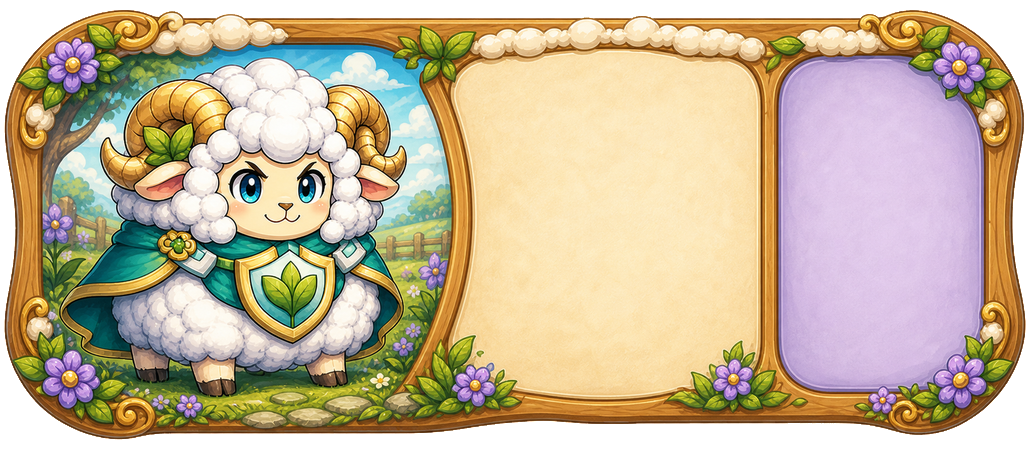
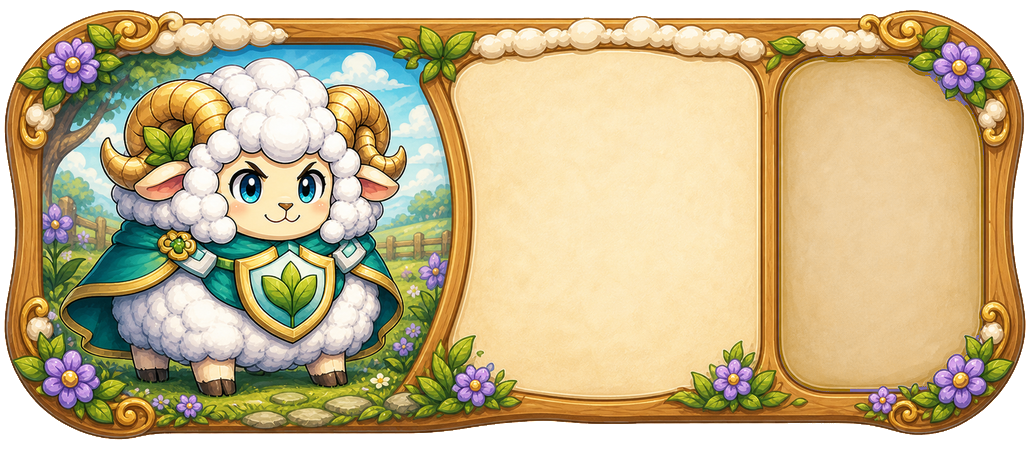
chore: snapshot latest working state before open-source release

Changed region(s): [[0.7456, 0.1244, 0.9631, 0.8711]]

diff --git a/assets/scripts/GameController.ts b/assets/scripts/GameController.ts
@@ -57,9 +57,9 @@ const { ccclass, property } = _decorator;
 const DESIGN_WIDTH = 1280;
 const DESIGN_HEIGHT = 720;
 const GAME_NAME = '羊狼四线战';
-const GAME_VERSION = 'v1.3.0-dev-polish09-ui19-perf01-loading01';
-const DEVELOPMENT_BATCH = 'v1.3.0-dev-polish09-ui19-perf01-loading01';
-const REQUESTED_TASK_ID = 'v1.3.0-dev-polish09-ui19-perf01-loading01';
+const GAME_VERSION = 'v1.3.0-dev-polish16-ui26-bgmalign01';
+const DEVELOPMENT_BATCH = 'v1.3.0-dev-polish16-ui26-bgmalign01';
+const REQUESTED_TASK_ID = 'v1.3.0-dev-polish16-ui26-bgmalign01';
 const BATTLEFIELD_CENTER_X = -90;
 // Rebalance the battle screen into three non-overlapping columns. Every
 // lane-owned visual and interaction axis consumes this same translation.
@@ -162,15 +162,18 @@ const PAUSE_ACTION_SECOND_ROW_Y = 17;
 const PAUSE_BGM_CENTER_Y = -130;
 const PAUSE_VOLUME_CENTER_Y = -252;
 const PAUSE_SETTINGS_ROW_WIDTH = 430;
-const PAUSE_BGM_ROW_HEIGHT = 166;
+const PAUSE_BGM_ROW_HEIGHT = 176;
 const PAUSE_BGM_CARD_WIDTH = 400;
 const PAUSE_BGM_CARD_HEIGHT = 56;
-const PAUSE_BGM_FIRST_CARD_Y = 9;
-const PAUSE_BGM_SECOND_CARD_Y = -55;
+const PAUSE_BGM_FIRST_CARD_Y = 10;
+const PAUSE_BGM_SECOND_CARD_Y = -54;
 const PAUSE_BGM_ICON_X = -173;
-const PAUSE_BGM_CONTENT_X = -10;
-const PAUSE_BGM_CONTENT_WIDTH = 236;
-const PAUSE_BGM_STATE_X = 153;
+// Match the two vertical separators baked into the sliced level-card art.
+const PAUSE_BGM_LEFT_DIVIDER_X = -143;
+const PAUSE_BGM_RIGHT_DIVIDER_X = 116;
+const PAUSE_BGM_CONTENT_X = -14;
+const PAUSE_BGM_CONTENT_WIDTH = 230;
+const PAUSE_BGM_STATE_X = 154;
 const PAUSE_BGM_STATE_WIDTH = 64;
 const PAUSE_BGM_CHECK_X = 181;
 const PAUSE_VOLUME_ROW_WIDTH = 208;
@@ -439,7 +442,7 @@ const TARGET_TYPOGRAPHY_STYLES: Readonly<Record<TargetTypographyRole, TargetTypo
         lineHeight: 27,
         isBold: true,
         color: UI_TEXT_PRIMARY,
-        overflow: Label.Overflow.CLAMP,
+        overflow: Label.Overflow.SHRINK,
         enableWrapText: false,
         horizontalAlign: HorizontalTextAlignment.LEFT,
         verticalAlign: VerticalTextAlignment.CENTER,
@@ -449,37 +452,37 @@ const TARGET_TYPOGRAPHY_STYLES: Readonly<Record<TargetTypographyRole, TargetTypo
         lineHeight: 18,
         isBold: false,
         color: UI_TEXT_SECONDARY,
-        overflow: Label.Overflow.CLAMP,
+        overflow: Label.Overflow.SHRINK,
         enableWrapText: false,
         horizontalAlign: HorizontalTextAlignment.RIGHT,
         verticalAlign: VerticalTextAlignment.CENTER,
     },
     BgmCardTitle: {
-        fontSize: 18,
-        lineHeight: 23,
+        fontSize: 17,
+        lineHeight: 20,
         isBold: true,
         color: new Color(74, 56, 39, 255),
-        overflow: Label.Overflow.CLAMP,
+        overflow: Label.Overflow.SHRINK,
         enableWrapText: false,
         horizontalAlign: HorizontalTextAlignment.LEFT,
         verticalAlign: VerticalTextAlignment.CENTER,
     },
     BgmCardBody: {
-        fontSize: 14,
-        lineHeight: 18,
+        fontSize: 13,
+        lineHeight: 16,
         isBold: false,
         color: new Color(100, 87, 61, 255),
-        overflow: Label.Overflow.CLAMP,
+        overflow: Label.Overflow.SHRINK,
         enableWrapText: false,
         horizontalAlign: HorizontalTextAlignment.LEFT,
         verticalAlign: VerticalTextAlignment.CENTER,
     },
     BgmCardState: {
-        fontSize: 13,
-        lineHeight: 16,
+        fontSize: 12,
+        lineHeight: 15,
         isBold: true,
         color: new Color(126, 84, 25, 255),
-        overflow: Label.Overflow.CLAMP,
+        overflow: Label.Overflow.SHRINK,
         enableWrapText: false,
         horizontalAlign: HorizontalTextAlignment.CENTER,
         verticalAlign: VerticalTextAlignment.CENTER,
@@ -542,6 +545,11 @@ const LANE_PROGRESS_VALUE_EPSILON = 0.001;
 const UNIT_HEALTH_RENDER_RATIO_EPSILON = 0.0001;
 const LANE_STALL_RECOVERY_SECONDS = 2;
 const MAX_LOGIC_DELTA_TIME = 0.1;
+// Web previews commonly run on 120/144/165 Hz displays. The engine default of
+// 60 Hz made slow lane motion hold for several display refreshes and then jump.
+// Mini-game runtimes keep their platform-selected cadence; the browser alone
+// requests 120 Hz while still using delta-time-based gameplay movement.
+const BROWSER_TARGET_FRAME_RATE = 120;
 // Root positions stay inside these bounds. The margin also reserves room for
 // the health bar and keeps units away from the surrounding HUD/base visuals.
 const UNIT_ROAD_SAFETY_MARGIN = 22;
@@ -1902,6 +1910,13 @@ export class GameController extends Component {
         if (!this.node.getComponent(Canvas)) {
             console.error('[WolfSheepBattle] GameController 必须挂在 Canvas 节点上。');
             return;
+        }
+        if (sys.isBrowser) {
+            const configuredFrameRate = Number(game.frameRate);
+            game.frameRate = Math.max(
+                Number.isFinite(configuredFrameRate) ? configuredFrameRate : 60,
+                BROWSER_TARGET_FRAME_RATE,
+            );
         }
 
         WeChatShareManager.initialize(GAME_VERSION);
@@ -11328,10 +11343,10 @@ export class GameController extends Component {
         graphics.roundRect(-PAUSE_SETTINGS_ROW_WIDTH / 2 + 0.75, -PAUSE_BGM_ROW_HEIGHT / 2 + 0.75,
             PAUSE_SETTINGS_ROW_WIDTH - 1.5, PAUSE_BGM_ROW_HEIGHT - 1.5, 15);
         graphics.stroke();
-        const title = this.createLabel(selector, 'BgmTrackTitle', '背景音乐风格', -111, 65, 176, 30, 22,
+        const title = this.createLabel(selector, 'BgmTrackTitle', '背景音乐风格', -111, 67, 176, 26, 22,
             new Color(74, 56, 39, 255));
         this.applyTargetTypography(title, 'BgmSectionTitle');
-        const hint = this.createLabel(selector, 'BgmTrackHint', '点击卡片立即试听并保存', 95, 65, 208, 24, 14,
+        const hint = this.createLabel(selector, 'BgmTrackHint', '点击卡片立即试听并保存', 95, 67, 208, 22, 14,
             new Color(116, 100, 82, 255));
         this.applyTargetTypography(hint, 'BgmSectionHint');
 
@@ -11363,20 +11378,20 @@ export class GameController extends Component {
             PAUSE_BGM_CARD_WIDTH, PAUSE_BGM_CARD_HEIGHT, x, y, parent);
         const optionGraphics = root.getComponent(Graphics)!;
         const titleLabel = this.createLabel(root, 'Title', track.displayName,
-            PAUSE_BGM_CONTENT_X, 14, PAUSE_BGM_CONTENT_WIDTH, 22, 18,
+            PAUSE_BGM_CONTENT_X, 11, PAUSE_BGM_CONTENT_WIDTH, 20, 17,
             new Color(74, 56, 39, 255));
         this.applyTargetTypography(titleLabel, 'BgmCardTitle');
         const subtitleLabel = this.createLabel(root, 'Subtitle', track.subtitle,
-            PAUSE_BGM_CONTENT_X, -14, PAUSE_BGM_CONTENT_WIDTH, 18, 14,
+            PAUSE_BGM_CONTENT_X, -12, PAUSE_BGM_CONTENT_WIDTH, 18, 13,
             new Color(100, 87, 61, 255));
         this.applyTargetTypography(subtitleLabel, 'BgmCardBody');
         const statusLabel = this.createLabel(root, 'Status', '',
-            PAUSE_BGM_STATE_X, -12, PAUSE_BGM_STATE_WIDTH, 18, 13,
+            PAUSE_BGM_STATE_X, -12, PAUSE_BGM_STATE_WIDTH, 16, 12,
             new Color(126, 84, 25, 255));
         this.applyTargetTypography(statusLabel, 'BgmCardState');
-        const checkNode = this.createGraphicsNode('SelectedCheck', 22, 22, PAUSE_BGM_CHECK_X, 17, root);
+        const checkNode = this.createGraphicsNode('SelectedCheck', 20, 20, PAUSE_BGM_CHECK_X, 12, root);
         const checkGraphics = checkNode.getComponent(Graphics)!;
-        const checkLabel = this.createLabel(checkNode, 'Check', '✓', 0, 0, 18, 18, 13, Color.WHITE);
+        const checkLabel = this.createLabel(checkNode, 'Check', '✓', 0, 0, 16, 16, 12, Color.WHITE);
         this.applyTargetTypography(checkLabel, 'BgmCardState', Color.WHITE);
         const touchArea = new Node('TouchArea');
         touchArea.setParent(root);
@@ -11463,10 +11478,10 @@ export class GameController extends Component {
                 graphics.lineWidth = 1;
                 graphics.strokeColor = selected
                     ? new Color(188, 137, 26, 180) : new Color(85, 165, 145, 170);
-                graphics.moveTo(-148, -21);
-                graphics.lineTo(-148, 21);
-                graphics.moveTo(112, -21);
-                graphics.lineTo(112, 21);
+                graphics.moveTo(PAUSE_BGM_LEFT_DIVIDER_X, -21);
+                graphics.lineTo(PAUSE_BGM_LEFT_DIVIDER_X, 21);
+                graphics.moveTo(PAUSE_BGM_RIGHT_DIVIDER_X, -21);
+                graphics.lineTo(PAUSE_BGM_RIGHT_DIVIDER_X, 21);
                 graphics.stroke();
             }
             option.statusLabel.string = selected ? '当前使用' : '点击试听';
@@ -11474,11 +11489,11 @@ export class GameController extends Component {
             option.checkGraphics.clear();
             if (selected) {
                 option.checkGraphics.fillColor = new Color(226, 171, 38, 255);
-                option.checkGraphics.circle(0, 0, 10);
+                option.checkGraphics.circle(0, 0, 9);
                 option.checkGraphics.fill();
                 option.checkGraphics.lineWidth = 1.5;
                 option.checkGraphics.strokeColor = new Color(255, 247, 205, 255);
-                option.checkGraphics.circle(0, 0, 10);
+                option.checkGraphics.circle(0, 0, 9);
                 option.checkGraphics.stroke();
             }
             option.root.setScale(1, 1, 1);
@@ -13141,6 +13156,9 @@ export class GameController extends Component {
             ? y
             : unit.team === Team.Player ? bounds.minY : bounds.maxY);
         const previousY = unit.node.position.y;
+        if (Number.isFinite(previousY) && Math.abs(safeY - previousY) <= LANE_PROGRESS_VALUE_EPSILON) {
+            return;
+        }
         unit.node.setPosition(unit.node.position.x, safeY);
         if (Number.isFinite(previousY) && Math.abs(safeY - previousY) > LANE_PROGRESS_VALUE_EPSILON) {
             unit.isMoving = true;
@@ -13983,7 +14001,13 @@ export class GameController extends Component {
             const forward = unit.team === Team.Player ? 1 : -1;
             const attackKick = Math.sin(Math.PI * unit.attackKickRemaining / UNIT_IMPACT_DURATION) * 1.7;
             const hitRecoil = Math.sin(Math.PI * unit.hitRecoilRemaining / UNIT_IMPACT_DURATION) * 1.3;
-            const visualY = Math.sin(unit.walkPhase) * bobAmplitude + forward * (attackKick - hitRecoil);
+            // Formal sprite sheets already contain locomotion posture changes.
+            // Adding a second sine bob made the portrait oscillate independently
+            // from the UnitRoot/HealthUI pair and read as vertical jitter. Keep
+            // the fallback procedural character bob only; impact offsets remain
+            // local to VisualNode for both render paths.
+            const locomotionBob = unit.artAnimator ? 0 : Math.sin(unit.walkPhase) * bobAmplitude;
+            const visualY = locomotionBob + forward * (attackKick - hitRecoil);
             const tierScale = UNIT_TIER_VISUALS[unit.definition.type].visualScale;
             const depthScale = this.getUnitVisualDepthScale(unit.node.position.y);
             const visualScale = tierScale * depthScale * (1 + hitRecoil * 0.022);
@@ -14017,7 +14041,7 @@ export class GameController extends Component {
         orderedUnits.sort((a, b) => b.node.position.y - a.node.position.y || a.queueOrder - b.queueOrder);
         for (let index = 0; index < orderedUnits.length; index += 1) {
             const node = orderedUnits[index].node;
-            if (node.siblingIndex !== index) {
+            if (node.getSiblingIndex() !== index) {
                 node.setSiblingIndex(index);
             }
         }
@@ -14943,11 +14967,11 @@ export class GameController extends Component {
             const isAvailable = state === 'available' || state === 'selected' || state === 'pressed';
             const usesPilotCard = !!button.artSprite?.node.active && !!button.artSprite.spriteFrame;
             if (usesPilotCard && button.artSprite) {
-                const cardTint = state === 'pressed'
-                    ? new Color(234, 224, 198, 255)
-                    : state === 'locked' ? new Color(158, 153, 143, 255)
-                        : state === 'insufficient' ? new Color(232, 215, 199, 255) : Color.WHITE;
-                button.artSprite.color = cardTint;
+                // The integrated sprite already contains the authored portrait,
+                // wool, flowers, leaves, gold frame and paper texture. Never tint
+                // the complete card: tier color is authored into the PNG, while
+                // state feedback uses text and the existing gold selection frame.
+                button.artSprite.color = Color.WHITE;
                 if (button.artSelectionGraphics) {
                     const selectionNode = button.artSelectionGraphics.node;
                     selectionNode.active = isSelected;
@@ -14993,85 +15017,26 @@ export class GameController extends Component {
 
     private applyUnitCardStatusStyle(button: UnitTypeButtonView, state: UnitCardVisualState): void {
         button.stateLabel.color = state === 'insufficient'
-            ? new Color(174, 67, 43, 255)
+            ? new Color(143, 58, 42, 255)
             : state === 'selected-insufficient'
-                ? new Color(139, 66, 25, 255)
+                ? new Color(126, 54, 31, 255)
                 : state === 'selected'
-                    ? new Color(103, 88, 22, 255)
+                    ? new Color(105, 72, 18, 255)
                     : state === 'locked'
-                        ? new Color(104, 96, 86, 255)
-                        : new Color(38, 110, 60, 255);
+                        ? new Color(100, 92, 82, 255)
+                        : new Color(72, 56, 41, 255);
     }
 
     private drawUnitCardTierAccent(
         button: UnitTypeButtonView,
-        type: SheepType,
-        state: UnitCardVisualState,
+        _type: SheepType,
+        _state: UnitCardVisualState,
     ): void {
         const graphics = button.tierAccentGraphics;
-        const size = button.node.getComponent(UITransform)?.contentSize;
-        if (!graphics || !size) return;
-        const tierAccent = UNIT_TIER_VISUALS[type].accentColor;
-        const alpha = state === 'locked' ? 112
-            : state === 'insufficient' || state === 'selected-insufficient' ? 176 : 255;
-        const accent = new Color(tierAccent.r, tierAccent.g, tierAccent.b, alpha);
-        const halfWidth = size.width / 2;
-        const halfHeight = size.height / 2;
-        const scale = size.width / UNIT_CARD_WIDTH;
-        const cream = { r: 255, g: 250, b: 232 };
-        const mixWithCream = (accentRatio: number, opacity: number): Color => new Color(
-            Math.round(cream.r * (1 - accentRatio) + tierAccent.r * accentRatio),
-            Math.round(cream.g * (1 - accentRatio) + tierAccent.g * accentRatio),
-            Math.round(cream.b * (1 - accentRatio) + tierAccent.b * accentRatio),
-            opacity,
-        );
-        const surfaceOpacity = state === 'locked' ? 220
-            : state === 'insufficient' || state === 'selected-insufficient' ? 232 : 244;
-        const contentLeft = -31 * scale;
-        const statePanelLeft = 49 * scale;
-
+        if (!graphics) return;
         graphics.clear();
-
-        // The formal v02 art keeps the portrait untouched. Its non-portrait UI
-        // regions are covered by a high-luminance tier surface derived from the
-        // one frozen accent source, so the card reads blue/green/purple/orange
-        // as a whole instead of inheriting the old teal/purple panel colors.
-        graphics.fillColor = mixWithCream(0.18, surfaceOpacity);
-        graphics.roundRect(
-            contentLeft,
-            -halfHeight + 5 * scale,
-            halfWidth - contentLeft - 5 * scale,
-            size.height - 10 * scale,
-            11 * scale,
-        );
-        graphics.fill();
-        graphics.fillColor = mixWithCream(0.36, surfaceOpacity);
-        graphics.roundRect(
-            statePanelLeft,
-            -halfHeight + 6 * scale,
-            halfWidth - statePanelLeft - 6 * scale,
-            size.height - 12 * scale,
-            10 * scale,
-        );
-        graphics.fill();
-
-        graphics.lineWidth = Math.max(3.5, 4 * scale);
-        graphics.strokeColor = accent;
-        graphics.roundRect(-halfWidth + 2 * scale, -halfHeight + 2 * scale,
-            size.width - 4 * scale, size.height - 4 * scale, 14 * scale);
-        graphics.stroke();
-
-        // Central information emphasis and state separator share the same tier
-        // color. Selection gold remains on the separate layer above this one.
-        graphics.fillColor = new Color(tierAccent.r, tierAccent.g, tierAccent.b,
-            state === 'locked' ? 128 : state === 'insufficient' || state === 'selected-insufficient' ? 176 : 218);
-        graphics.roundRect(-24 * scale, -halfHeight + 8 * scale, 66 * scale, 5 * scale, 2.5 * scale);
-        graphics.fill();
-        graphics.lineWidth = Math.max(3, 3.5 * scale);
-        graphics.strokeColor = accent;
-        graphics.moveTo(statePanelLeft, -halfHeight + 12 * scale);
-        graphics.lineTo(statePanelLeft, halfHeight - 12 * scale);
-        graphics.stroke();
+        // Tier hue and paper relief are authored into the integrated PNG.  Keep
+        // this legacy layer empty so it cannot flatten the status-well texture.
     }
 
     private orderUnitCardChildren(button: UnitTypeButtonView): void {

diff --git a/RELEASE_IDENTITY.md b/RELEASE_IDENTITY.md
@@ -2,9 +2,9 @@
 
 - 游戏正式名称：羊狼四线战
 - 正式 AppID：`wxfbd176abc5b3911c`
-- 当前开发版本：`v1.3.0-dev-polish09-ui19-perf01-loading01`
-- 本轮整理批次：`v1.3.0-dev-polish09-ui19-perf01-loading01`
-- 本轮版本名称：暂停/BGM/兵种主色/血条性能/加载进度联合修复
+- 当前开发版本：`v1.3.0-dev-polish16-ui26-bgmalign01`
+- 本轮整理批次：`v1.3.0-dev-polish16-ui26-bgmalign01`
+- 本轮版本名称：暂停音乐风格卡片文字对齐修复
 
 ## 发布约束
 
@@ -17,4 +17,4 @@
 
 ## 当前门禁状态
 
-正式 AppID 已归一化，两首正式 BGM 的授权状态以 `THIRD_PARTY_AUDIO.md` 当前记录为准，均为 `VERIFIED`。游戏运行版本为 `v1.3.0-dev-polish09-ui19-perf01-loading01`；微信开发者工具和真机验证完成前，不进入正式发布版本。
+正式 AppID 已归一化，两首正式 BGM 的授权状态以 `THIRD_PARTY_AUDIO.md` 当前记录为准，均为 `VERIFIED`。游戏运行版本为 `v1.3.0-dev-polish16-ui26-bgmalign01`；微信开发者工具和真机验证完成前，不进入正式发布版本。
